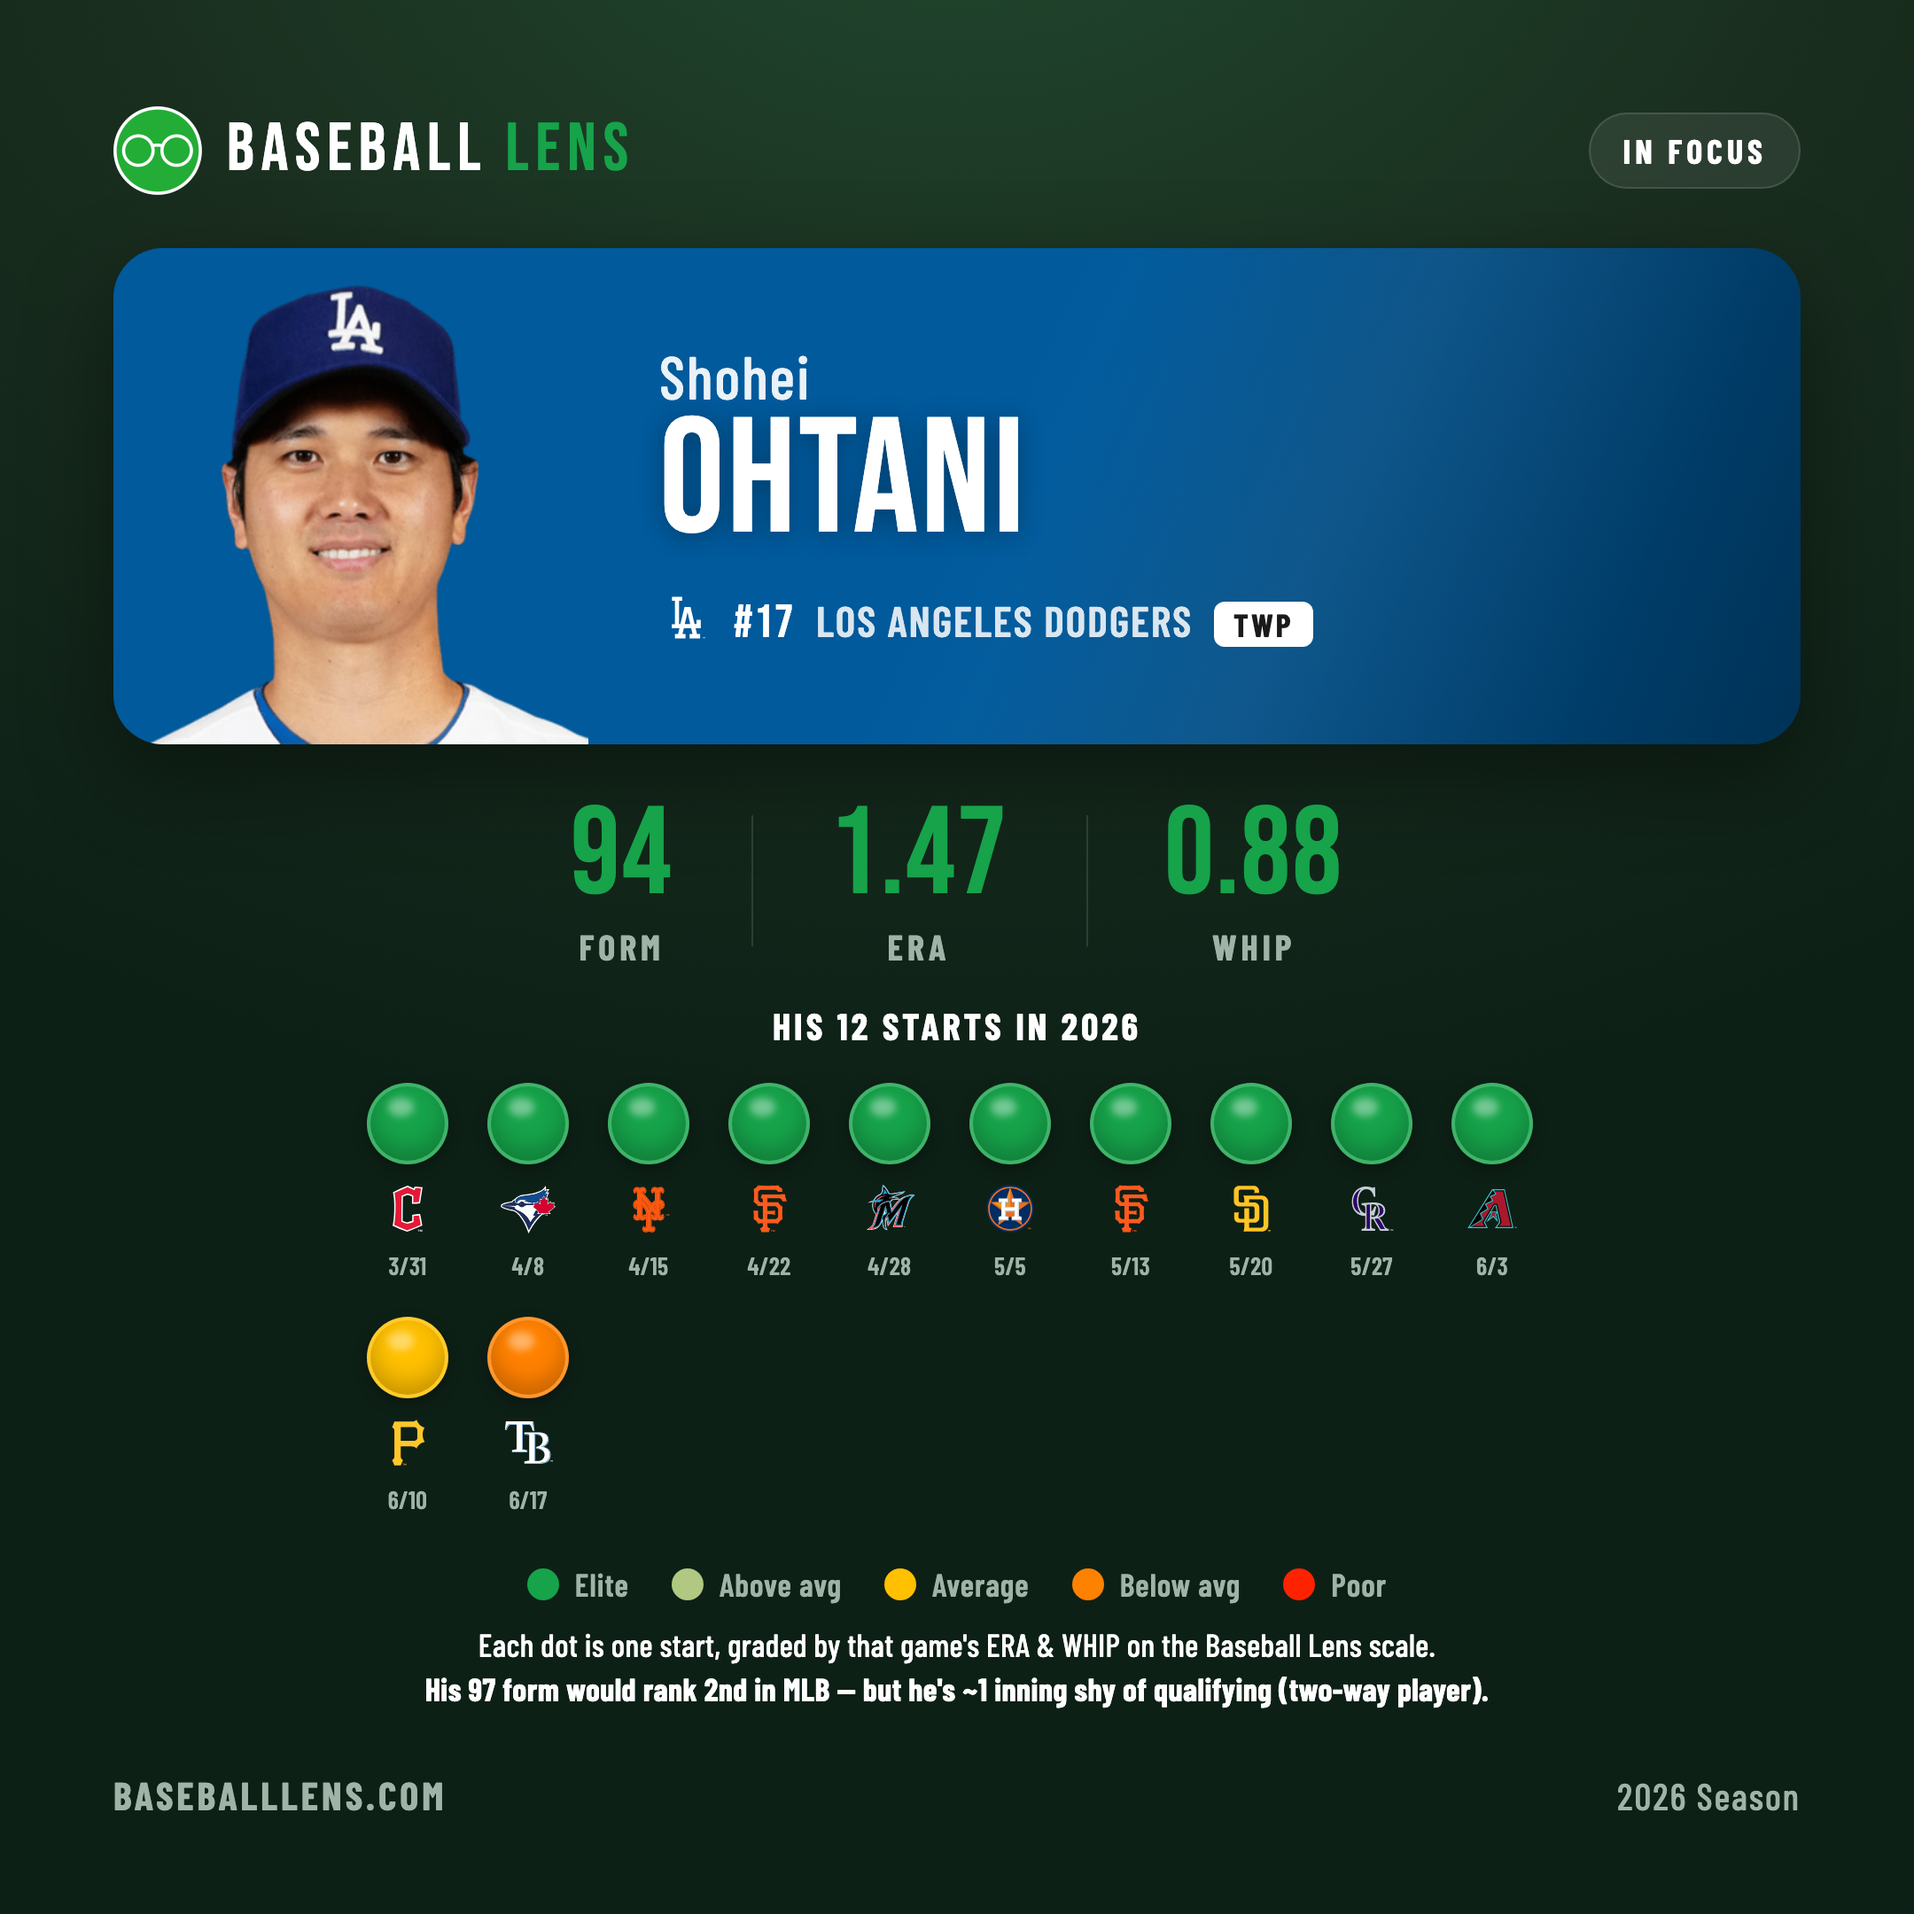
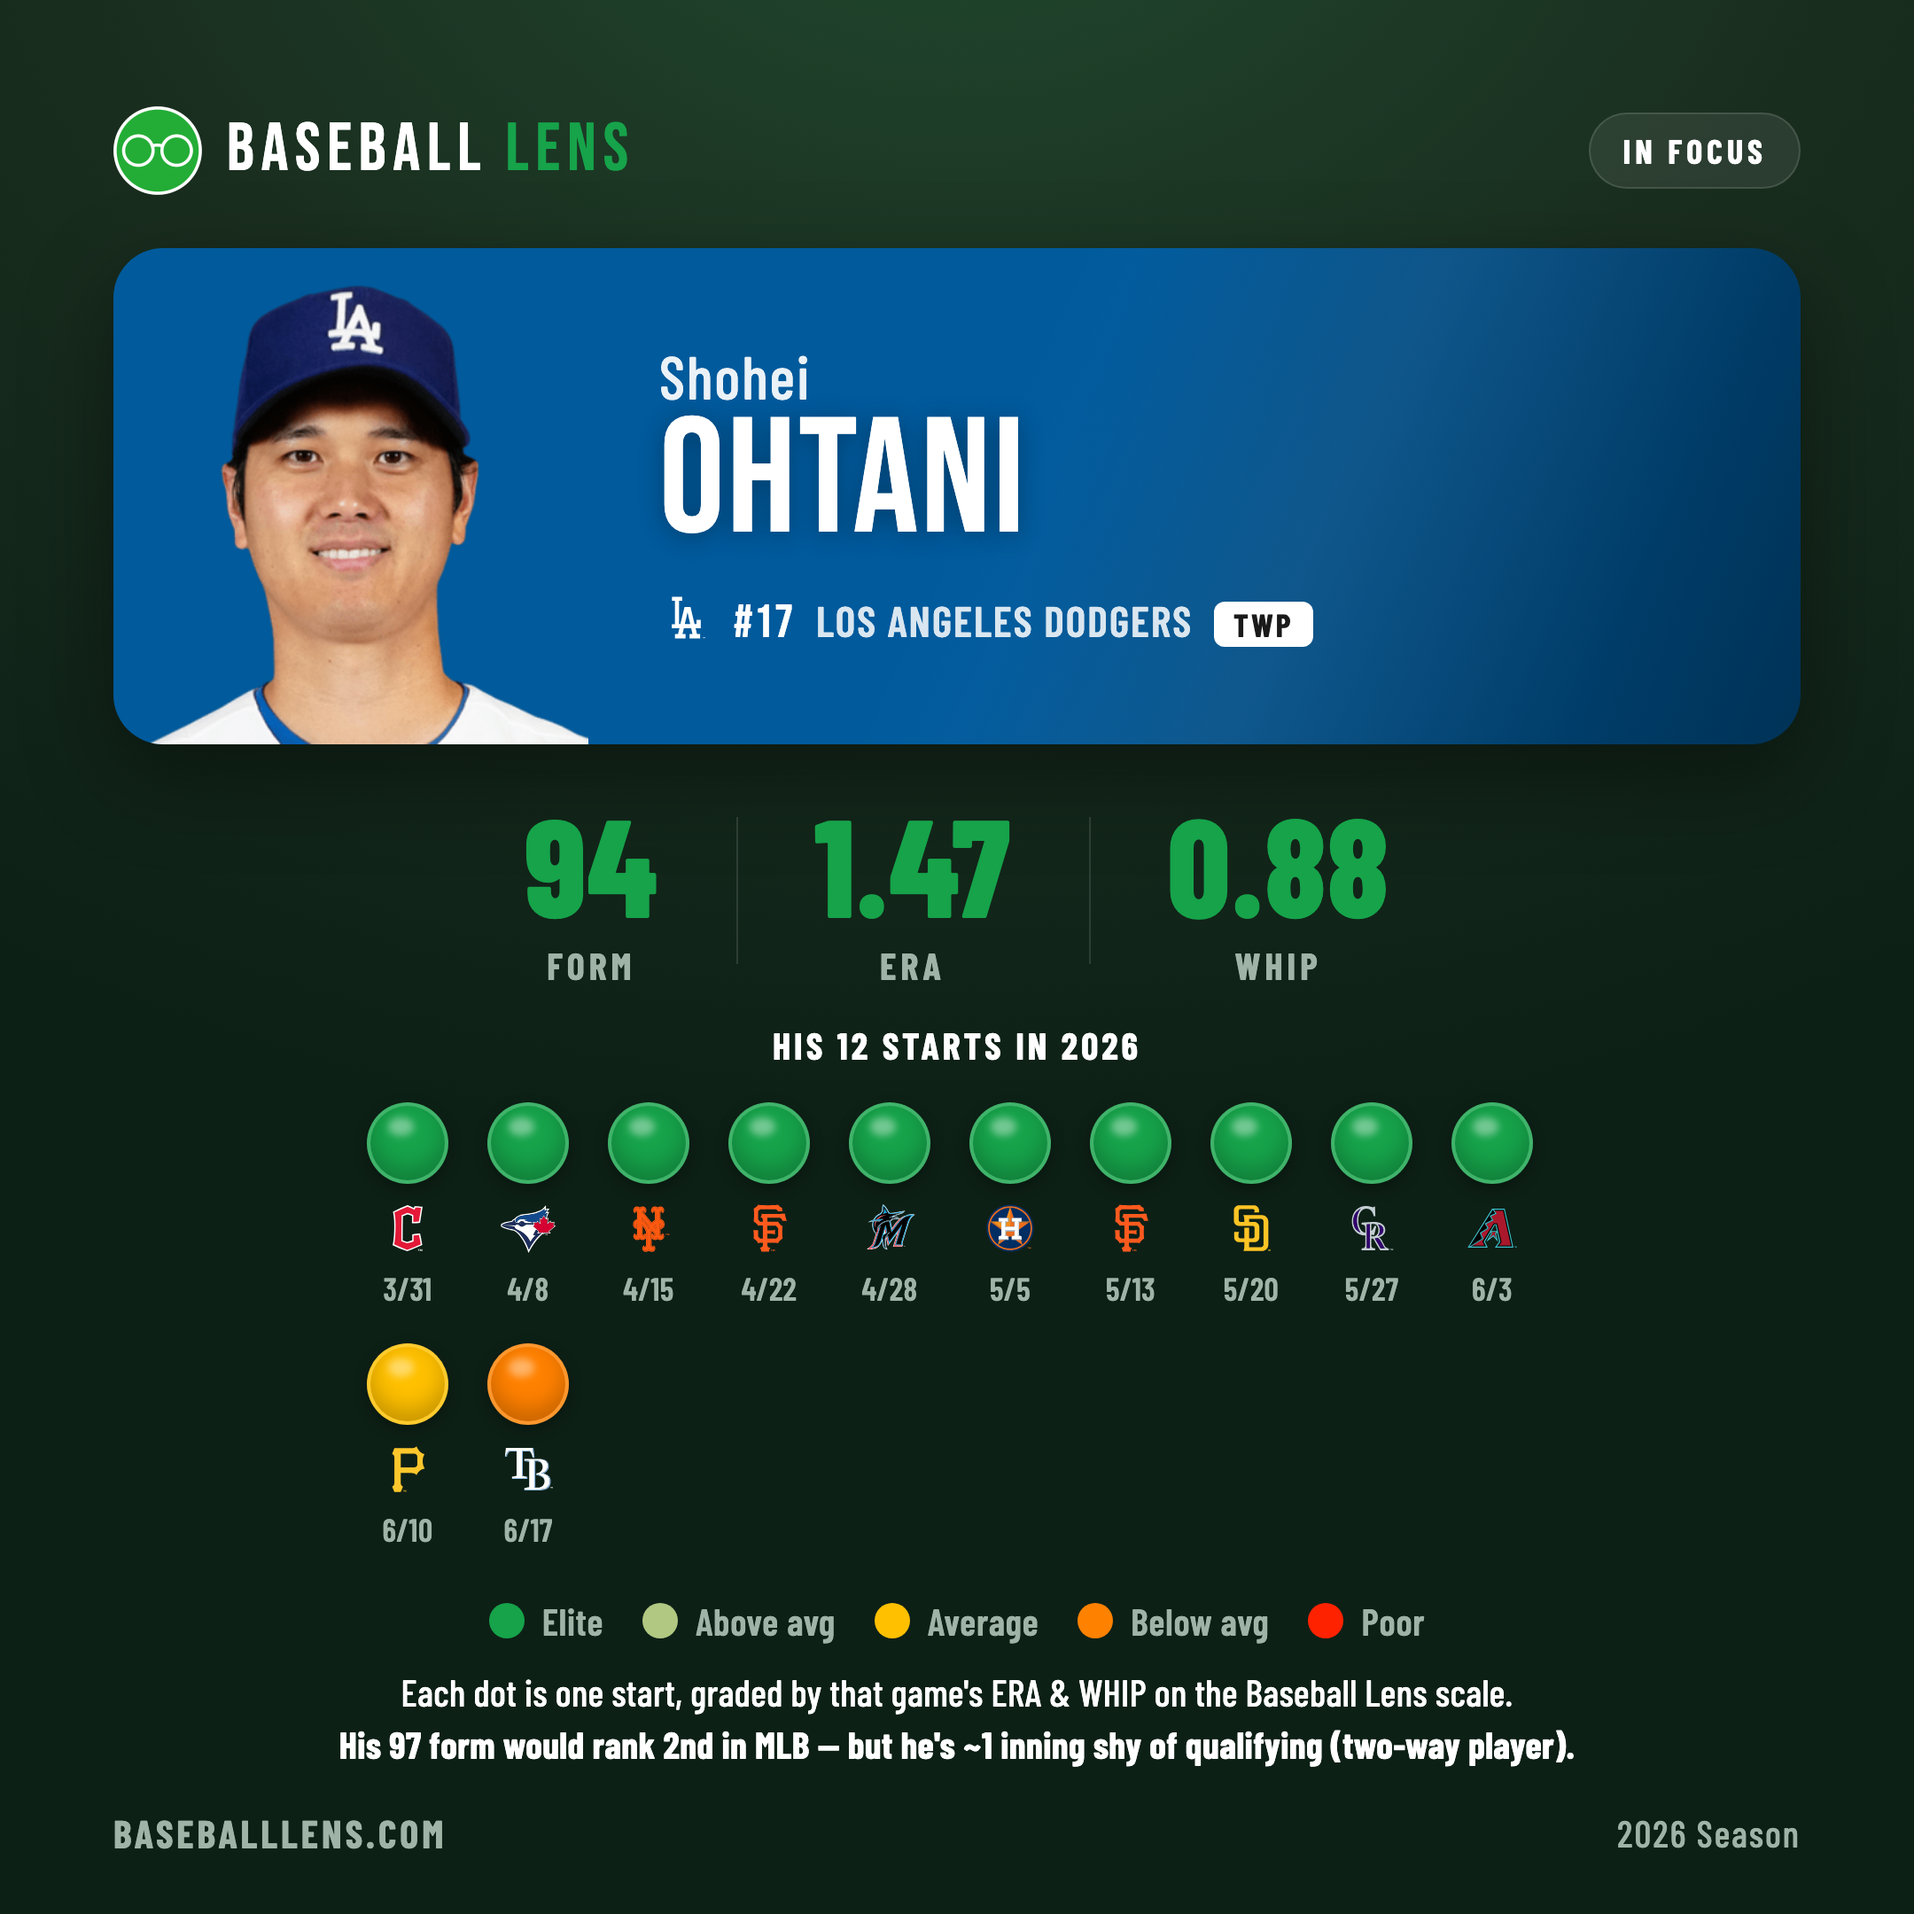
Cards: match the web's stat font + enlarge small text
- FORM/ERA/WHIP numbers now use Barlow Condensed 800 (the app's stat
  font for FORM/OPS via .impact-bar-val/.mvp-score-val), not Bebas Neue.
- Bump dot dates (14->18), legend (18->21) and the note (18->21) so they
  hold up when the card is scaled down.

diff --git a/tools/social/template_pitcher.html b/tools/social/template_pitcher.html
@@ -50,8 +50,8 @@
   .strip{display:flex; align-items:center; justify-content:center; gap:0; margin:28px 0 4px}
   .strip .s{display:flex; flex-direction:column; align-items:center; padding:0 44px; position:relative}
   .strip .s + .s::before{content:''; position:absolute; left:0; top:12%; bottom:12%; width:1px; background:var(--line)}
-  .strip .s .v{font-family:'Bebas Neue'; font-size:70px; line-height:1; letter-spacing:1px; color:var(--stat,#fff)}
-  .strip .s .l{font-weight:700; font-size:20px; letter-spacing:2.5px; color:var(--muted); text-transform:uppercase; margin-top:4px}
+  .strip .s .v{font-family:'Barlow Condensed'; font-weight:800; font-size:78px; line-height:1; letter-spacing:.5px; color:var(--stat,#fff)}
+  .strip .s .l{font-weight:700; font-size:21px; letter-spacing:2.5px; color:var(--muted); text-transform:uppercase; margin-top:6px}
   .strip .s.forma .v{color:var(--stat,var(--accent,#ffc52f))}
 
   /* games — two rows of colored dots with opponent logos + date */
@@ -67,13 +67,13 @@
   .dot .opp{width:50px; height:34px; display:flex; align-items:center; justify-content:center}
   .dot .opp img{max-width:100%; max-height:100%; object-fit:contain; display:block}
   .dot .opp.w img{filter:brightness(0) invert(1)}   /* force-white for dark-clashing logos */
-  .dot .dt{font-weight:600; font-size:14px; letter-spacing:.2px; color:var(--muted); line-height:1}
+  .dot .dt{font-weight:600; font-size:18px; letter-spacing:.2px; color:var(--muted); line-height:1}
 
   /* legend */
-  .legend{display:flex; align-items:center; justify-content:center; gap:24px; margin-top:30px}
-  .legend .it{display:flex; align-items:center; gap:9px; font-weight:600; font-size:18px; letter-spacing:.5px; color:var(--muted)}
-  .legend .it i{width:18px; height:18px; border-radius:50%; display:inline-block}
-  .legend-note{max-width:840px; margin:11px auto 0; text-align:center; font-weight:500; font-size:18px;
+  .legend{display:flex; align-items:center; justify-content:center; gap:22px; margin-top:30px}
+  .legend .it{display:flex; align-items:center; gap:10px; font-weight:600; font-size:21px; letter-spacing:.4px; color:var(--muted)}
+  .legend .it i{width:20px; height:20px; border-radius:50%; display:inline-block}
+  .legend-note{max-width:880px; margin:13px auto 0; text-align:center; font-weight:500; font-size:21px;
     line-height:1.4; letter-spacing:.2px; color:#fff}
   .legend-note b{color:#fff; font-weight:700}
 
